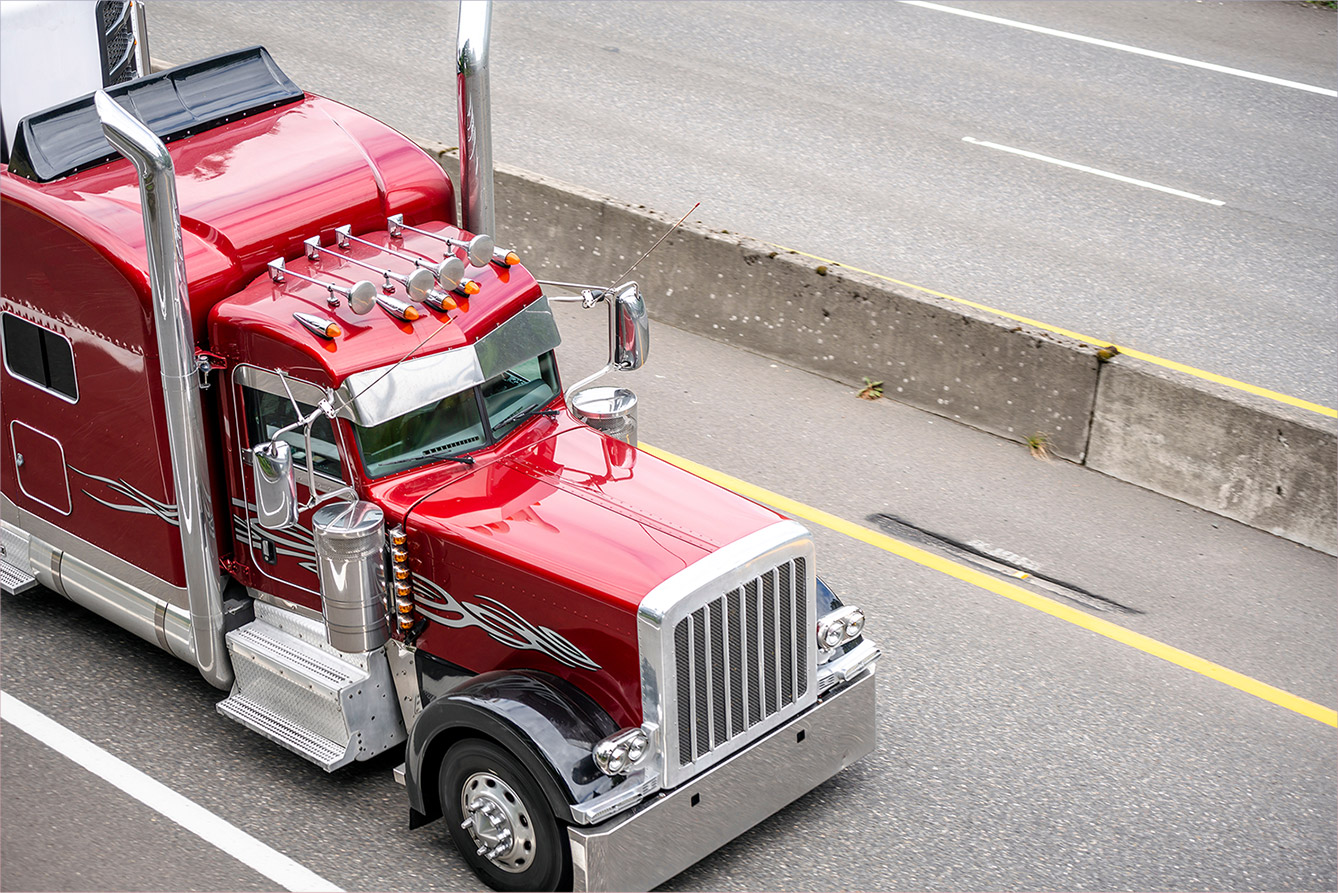
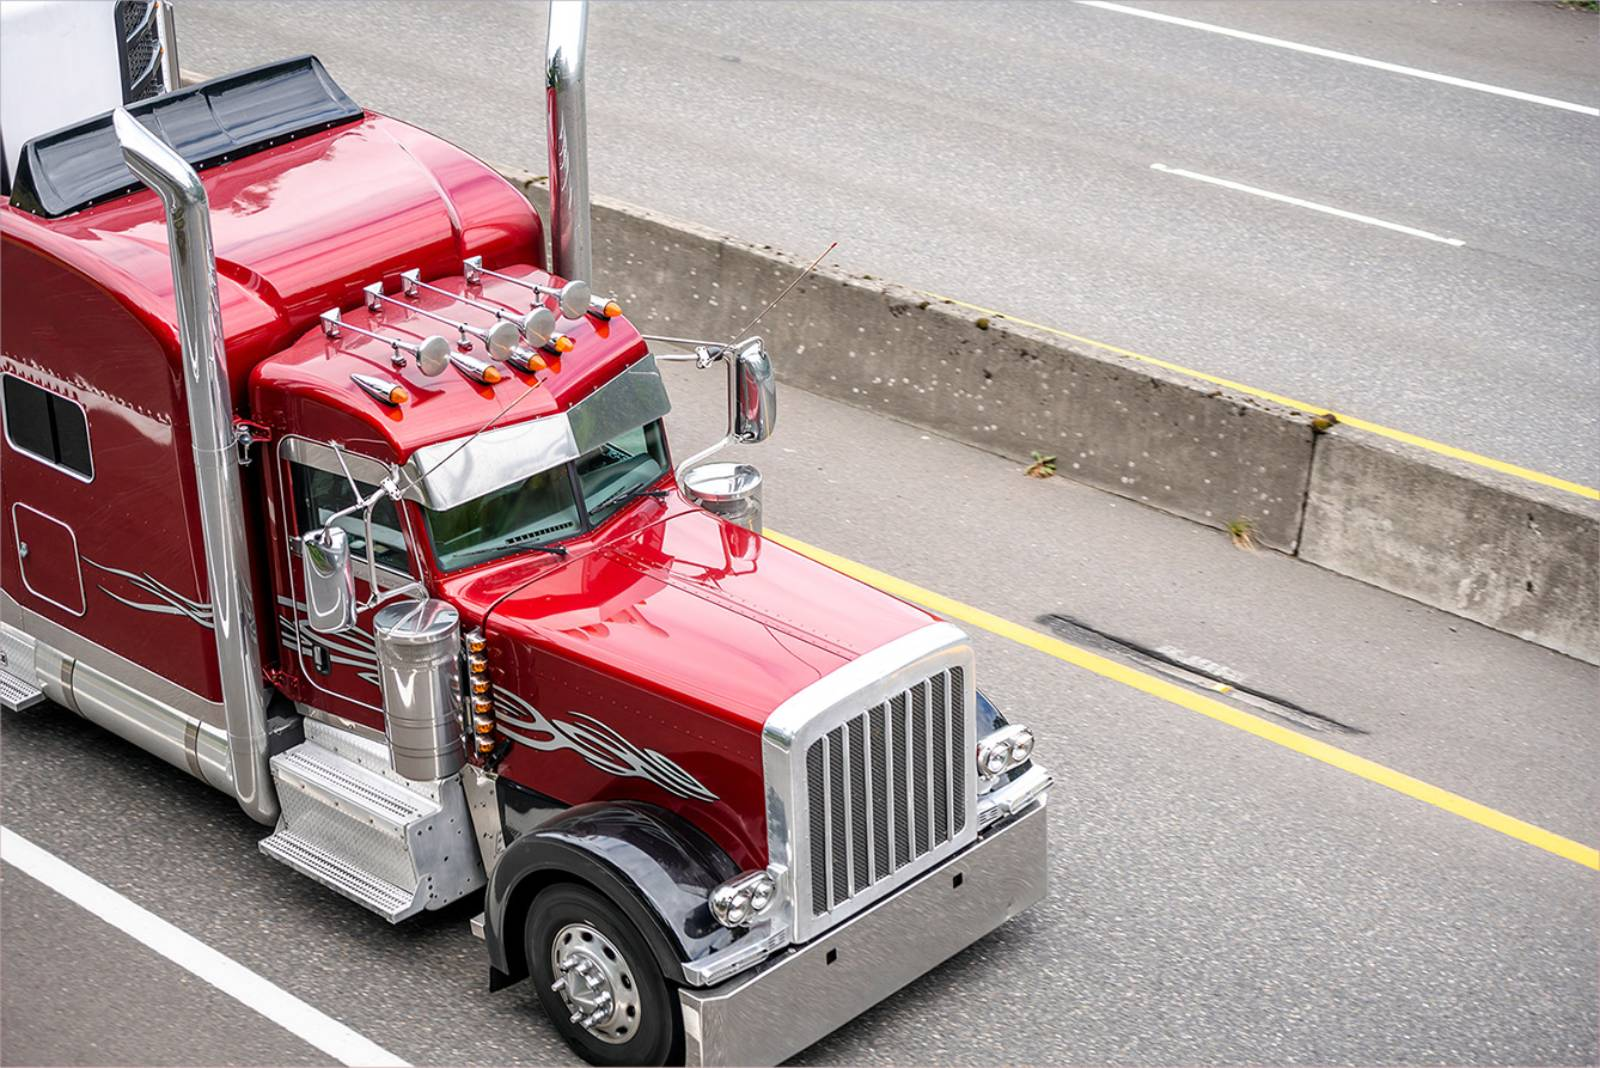
dlt-5-2022

diff --git a/dlt/css/main.css b/dlt/css/main.css
@@ -252,6 +252,10 @@ ul.list {
     overflow: hidden; }
     .main-banner .carousel-inner .item {
       height: 650px; }
+      .main-banner .carousel-inner .item img {
+        object-fit: fill;
+        height: 650px;
+        width: 100%; }
   .main-banner .logo {
     position: absolute;
     right: 50px;
@@ -286,7 +290,7 @@ ul.list {
       color: #fff;
       text-align: left;
       margin: 0px 0 0 70px;
-      font-size: 47px;
+      font-size: 40px;
       font-weight: 700;
       text-shadow: none;
       transform: skew(-20deg); }
@@ -307,10 +311,13 @@ ul.list {
   padding: 25px 0 40px; }
   .footer h2 {
     margin: 35px 0 30px; }
+  .footer p {
+    font-size: 16px; }
   .footer h3 {
     color: #000;
     font-size: 18px;
-    font-weight: 700; }
+    font-weight: 700;
+    margin-bottom: 20px; }
   .footer svg {
     fill: #e7430a; }
   .footer .footer-li li {
@@ -345,7 +352,9 @@ ul.list {
   .custom-header #navbar {
     float: right;
     width: 100%;
-    margin-top: 13px; }
+    margin-top: 13px;
+    margin: 0px;
+    text-align: center; }
   .social-network {
     justify-content: center; }
   .services-info .circle {

diff --git a/dlt/index.html b/dlt/index.html
@@ -89,7 +89,7 @@
 
               <div class="carousel-caption">
                 <h3>Now Accepting Owner 
-                  Operations & Fleet<br>
+                  Operators & Fleet<br>
                   Owners with Active
                   Authority
                 </h3>
@@ -104,7 +104,7 @@
 
               <div class="carousel-caption">
                 <h3>Now Accepting Owner 
-                  Operations & Fleet<br>
+                  Operators & Fleet<br>
                   Owners with Active
                   Authority
                 </h3>
@@ -119,7 +119,7 @@
 
               <div class="carousel-caption">
                 <h3>Now Accepting Owner 
-                  Operations & Fleet<br>
+                  Operators & Fleet<br>
                   Owners with Active
                   Authority
                 </h3>

diff --git a/dlt/scss/main.scss b/dlt/scss/main.scss
@@ -305,6 +305,11 @@ ul.list {
 		overflow: hidden; 
 		.item{
 			height:650px; 
+			img{
+				object-fit: fill;
+				height: 650px;
+				width: 100%;
+			}
 		}
 	}
 	.logo{
@@ -350,7 +355,7 @@ ul.list {
 			color:#fff;
 			text-align: left;
 			margin:0px 0 0 70px;
-			font-size:47px; 
+			font-size:40px; 
 			font-weight: 700;
 			text-shadow: none; 
 			transform: skew(-20deg);
@@ -379,10 +384,14 @@ ul.list {
 	h2{
 		margin:35px 0 30px;
 	}
+	p{
+		font-size:16px;
+	}
 	h3{ 
 		color:#000;
 		font-size:18px; 
 		font-weight:700;  
+		margin-bottom:20px;
 	}
 	svg{
 		fill: #e7430a;
@@ -433,6 +442,8 @@ ul.list {
 		float: right;
 		width: 100%;
 		margin-top: 13px;
+		margin: 0px;
+		text-align: center;
 	}
 	.social-network {
 		justify-content: center;
